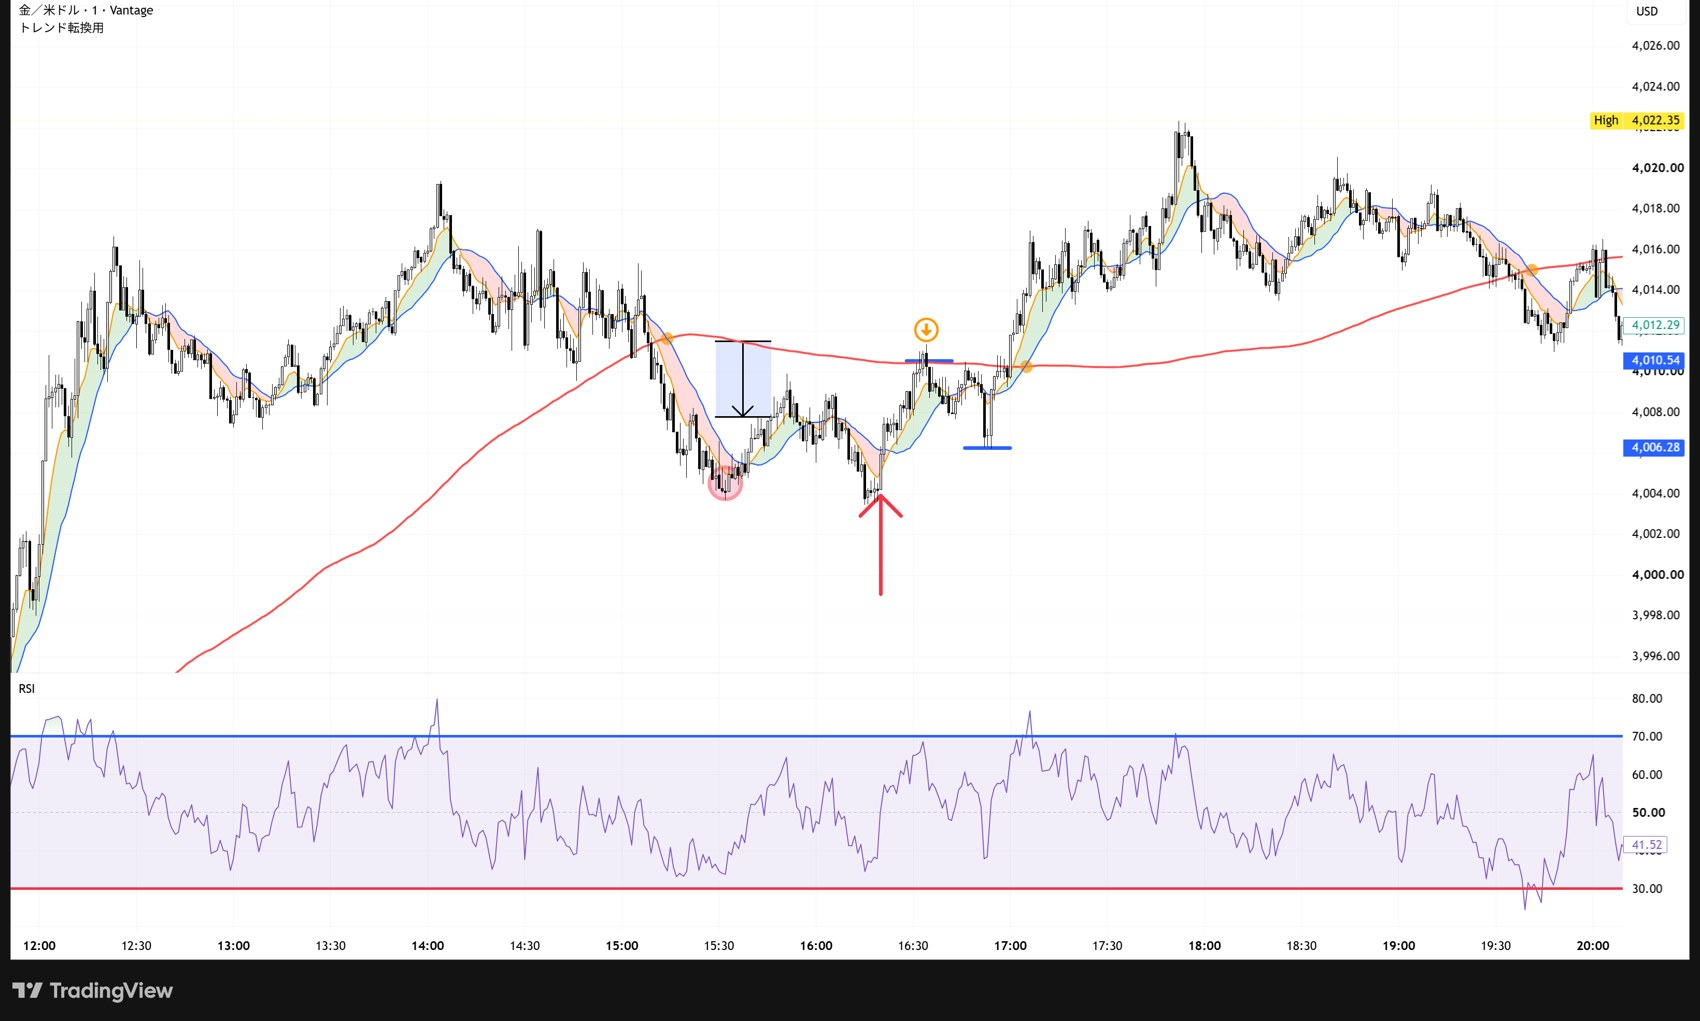
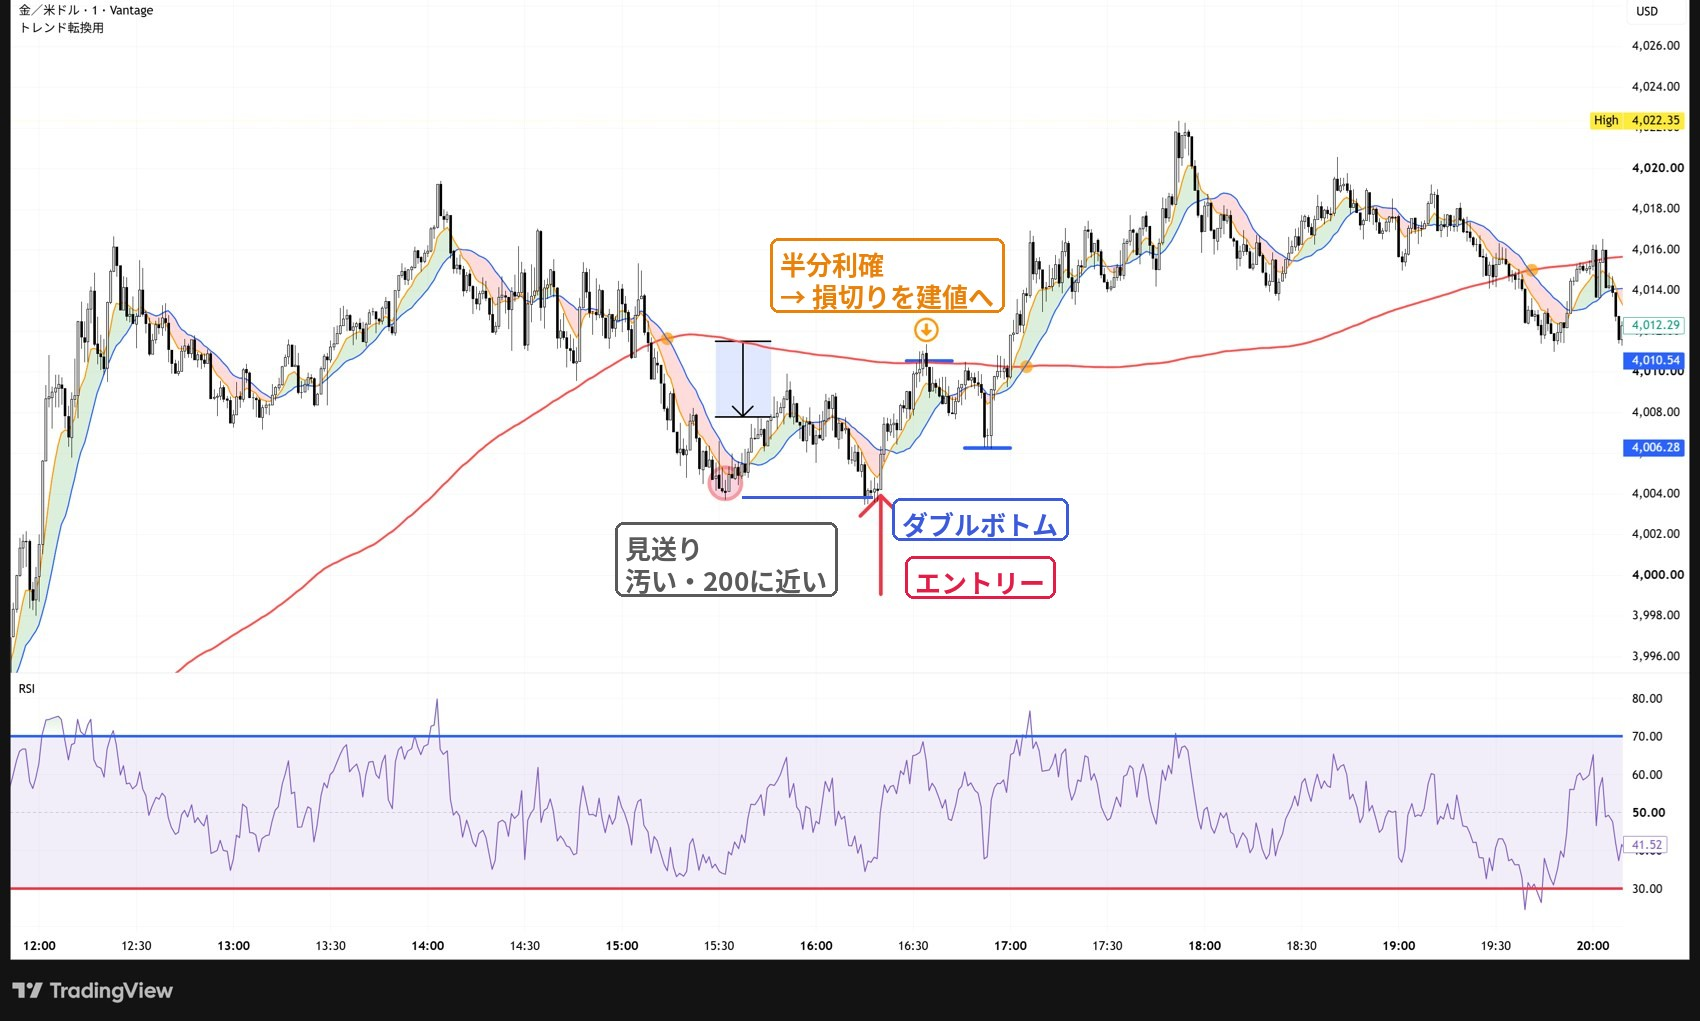
トレンド転換ページ: 例1冒頭の図に印と、本人の言葉の説明を追加
Claude-Session: https://claude.ai/code/session_01HxS9YaEfLR2yPnioVsHz63

Changed region(s): [[0.4365, 0.2125, 0.5924, 0.334], [0.4365, 0.4858, 0.6235, 0.6072], [0.3429, 0.5162, 0.4988, 0.6072]]

diff --git a/reversal.html b/reversal.html
@@ -76,6 +76,12 @@ h3.part.first { margin-top: 0; padding-top: 0; border-top: 0; }
     <figure class="pic">
       <a href="methods/rev-1026-all.jpg" target="_blank" rel="noopener"><img src="methods/rev-1026-all.jpg" alt="10/26 1分足" loading="lazy"></a>
     </figure>
+    <ul class="cap3">
+      <li><b>左の丸</b>　見送り。ローソク足が汚い（ヒゲの多い陽線と陰線が混ざっている）。200SMAにも近い。</li>
+      <li><b>赤い矢印</b>　エントリー。9EMAにそって落ちてきて、長い陽線が2本出た。</li>
+      <li><b>戦略</b>　半分は赤線で利確。損切りを建値に移動。</li>
+      <li><b>形</b>　ダブルボトムにも見える。</li>
+    </ul>
     <h3 class="part">① 最初に入る</h3>
     <figure class="pic">
       <a href="methods/rev-1026b.jpg" target="_blank" rel="noopener"><img src="methods/rev-1026b.jpg" alt="10/26 右のチャート 赤い矢印が反発の始まりと、200の近くの押し" loading="lazy"></a>
